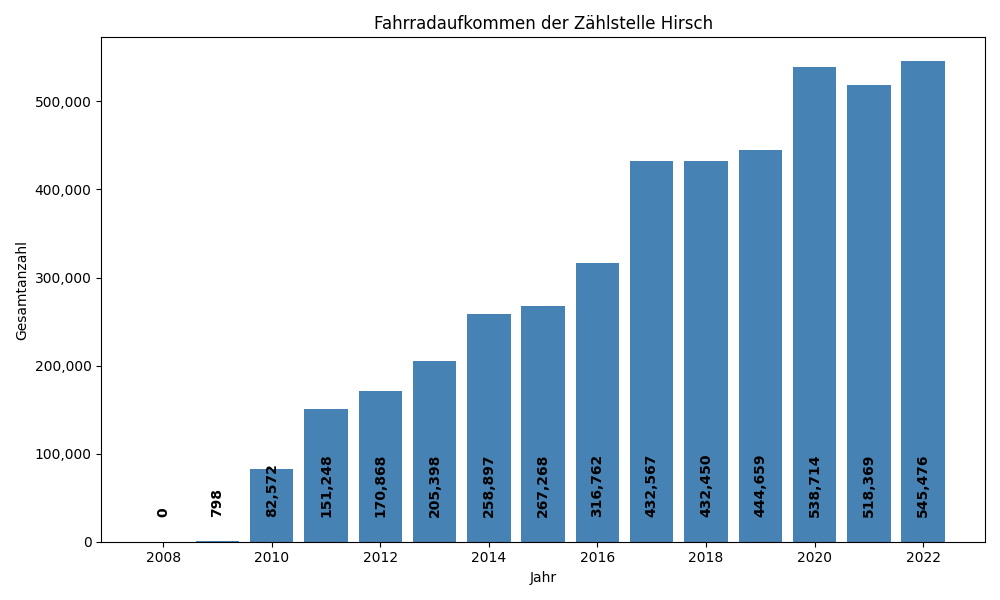
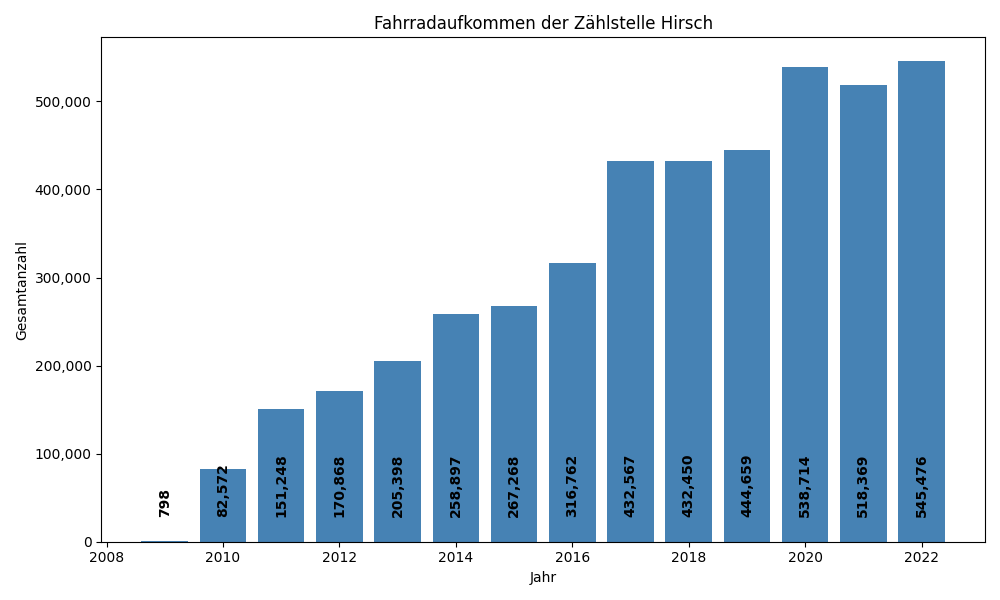
fix for 3-3

Changed region(s): [[0.155, 0.12, 0.93, 0.96], [0.899, 0.9, 0.93, 0.96], [0.093, 0.9, 0.124, 0.96]]

diff --git a/exec_3-3.py b/exec_3-3.py
@@ -22,8 +22,10 @@ for file_name in os.listdir(data_folder):
             df = pd.read_csv(file_path)
             # Nur relevante Spalten behalten
             df = df[["datum", "zaehlstelle", "gesamt"]]
+
             # Datum in datetime umwandeln
             df["datum"] = pd.to_datetime(df["datum"], format="%Y-%m-%d")
+            df = df.dropna(subset=["gesamt"])
             all_data.append(df)
         except Exception as e:
             print(f"Fehler beim Verarbeiten der Datei {file_name}: {e}")
